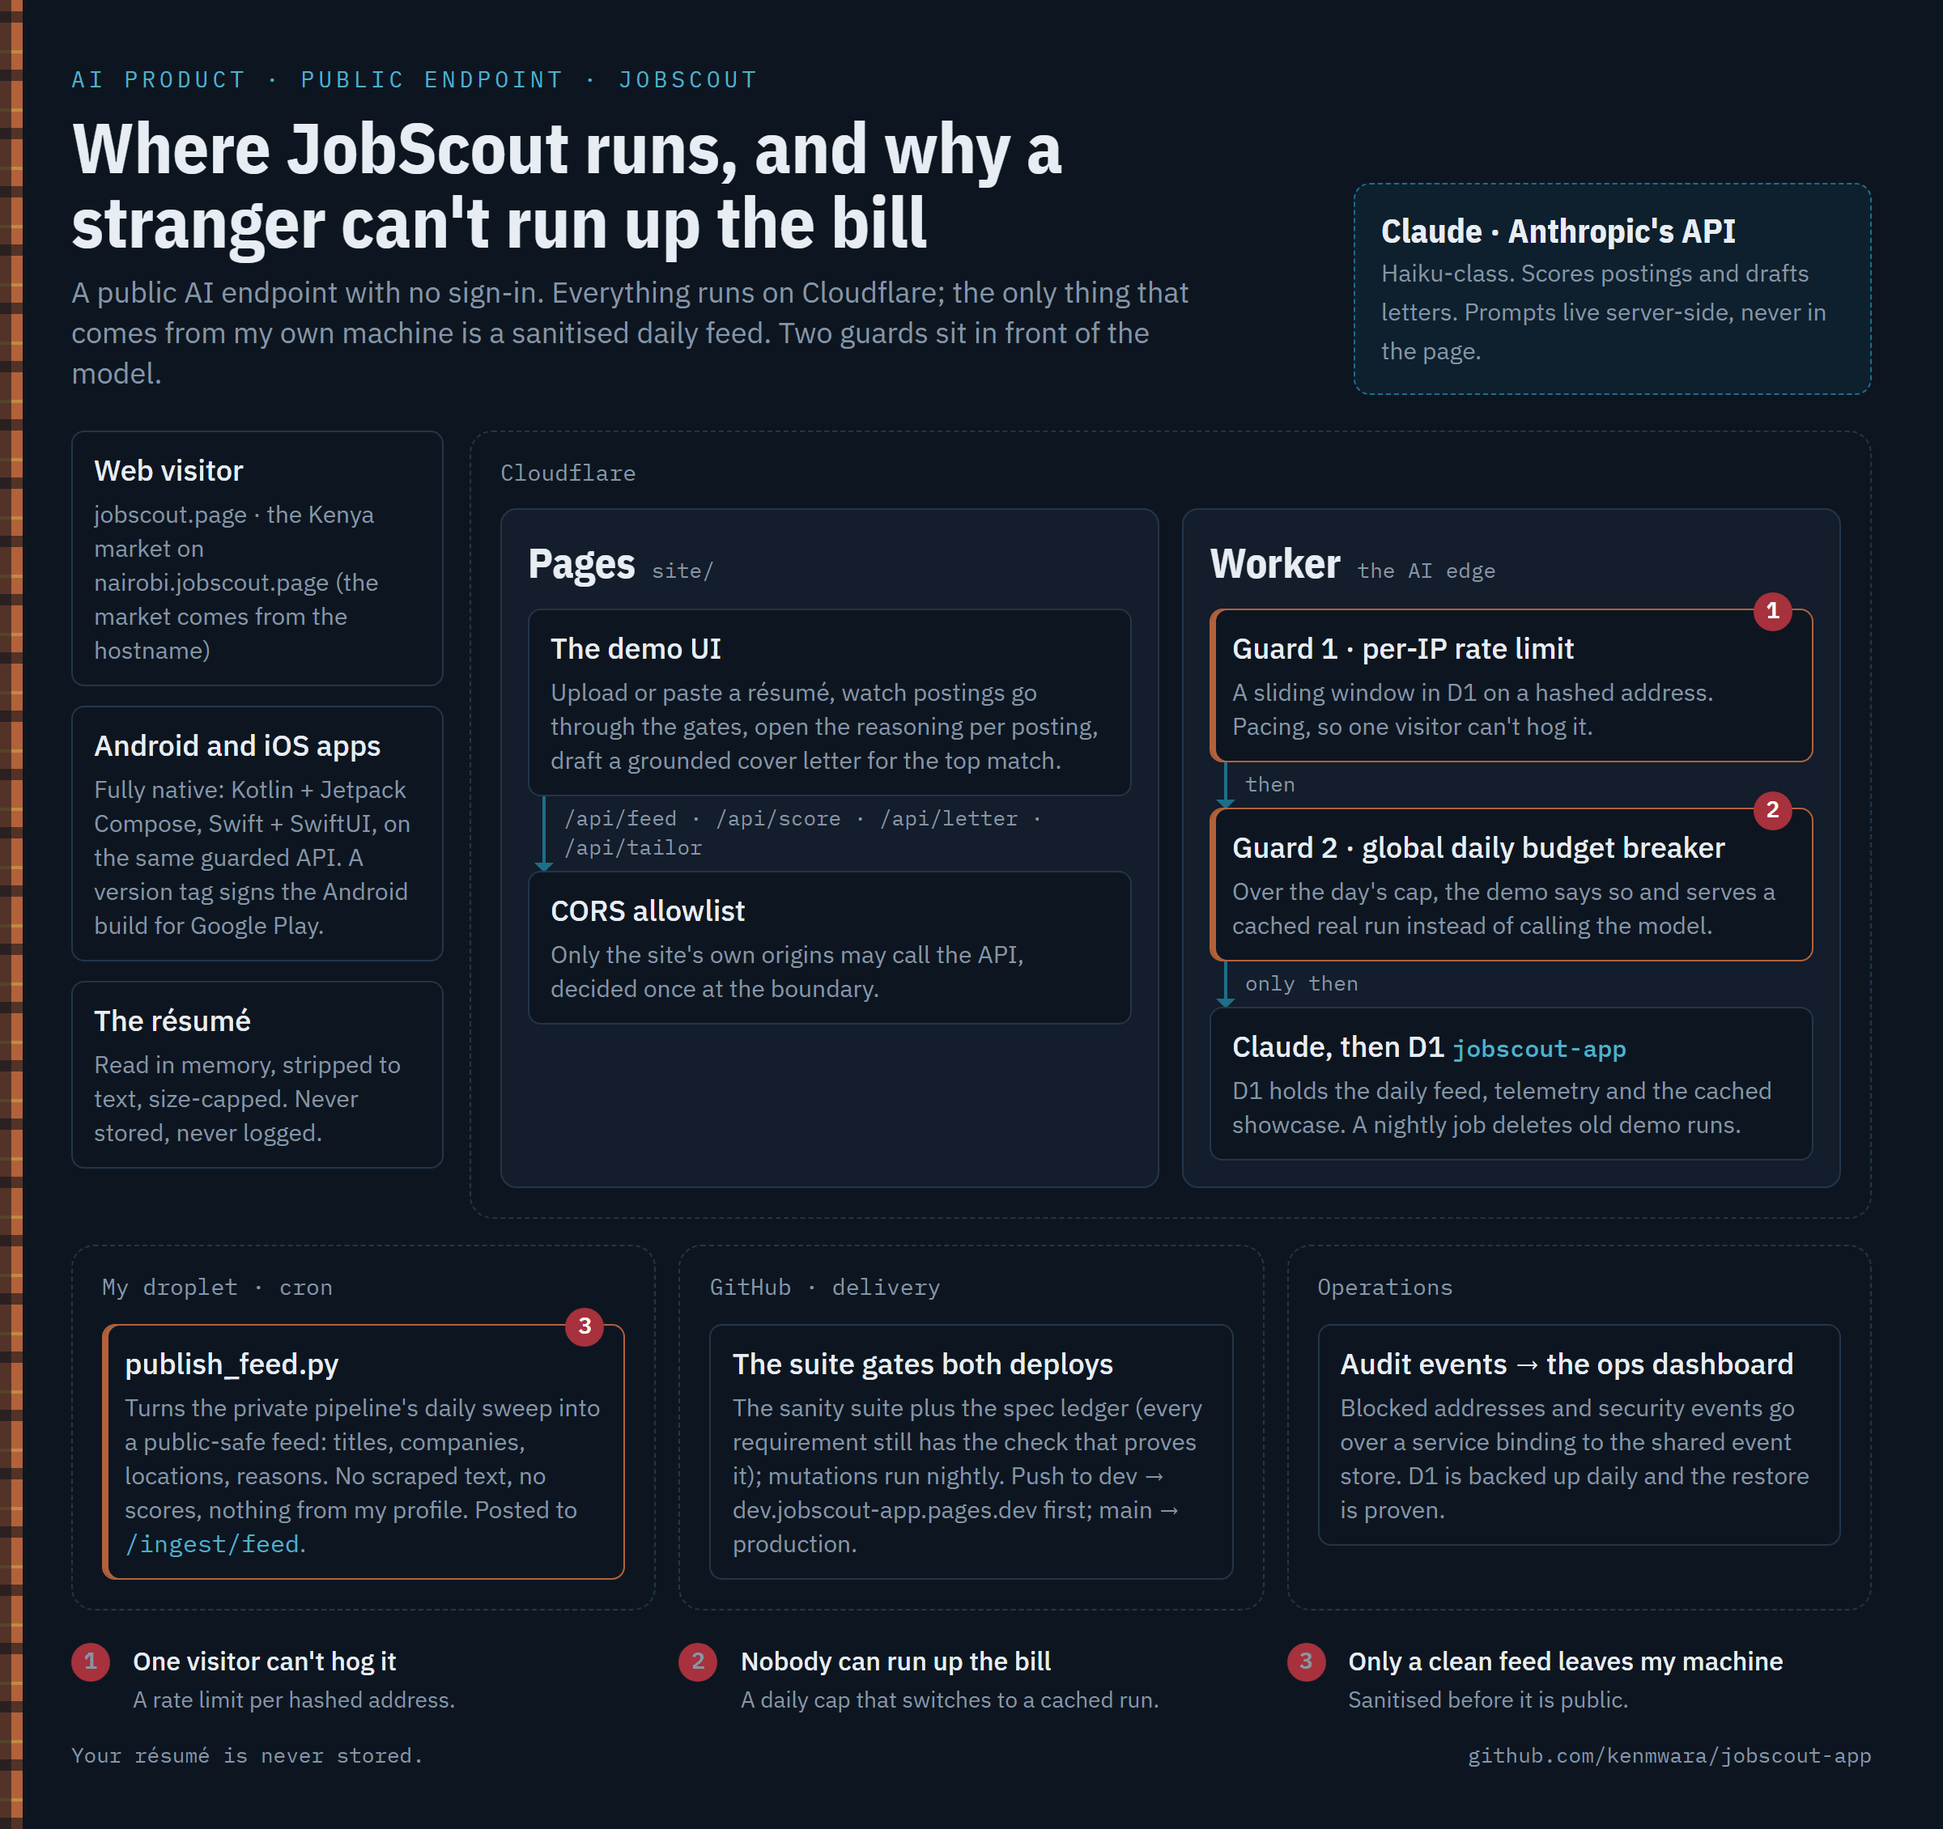
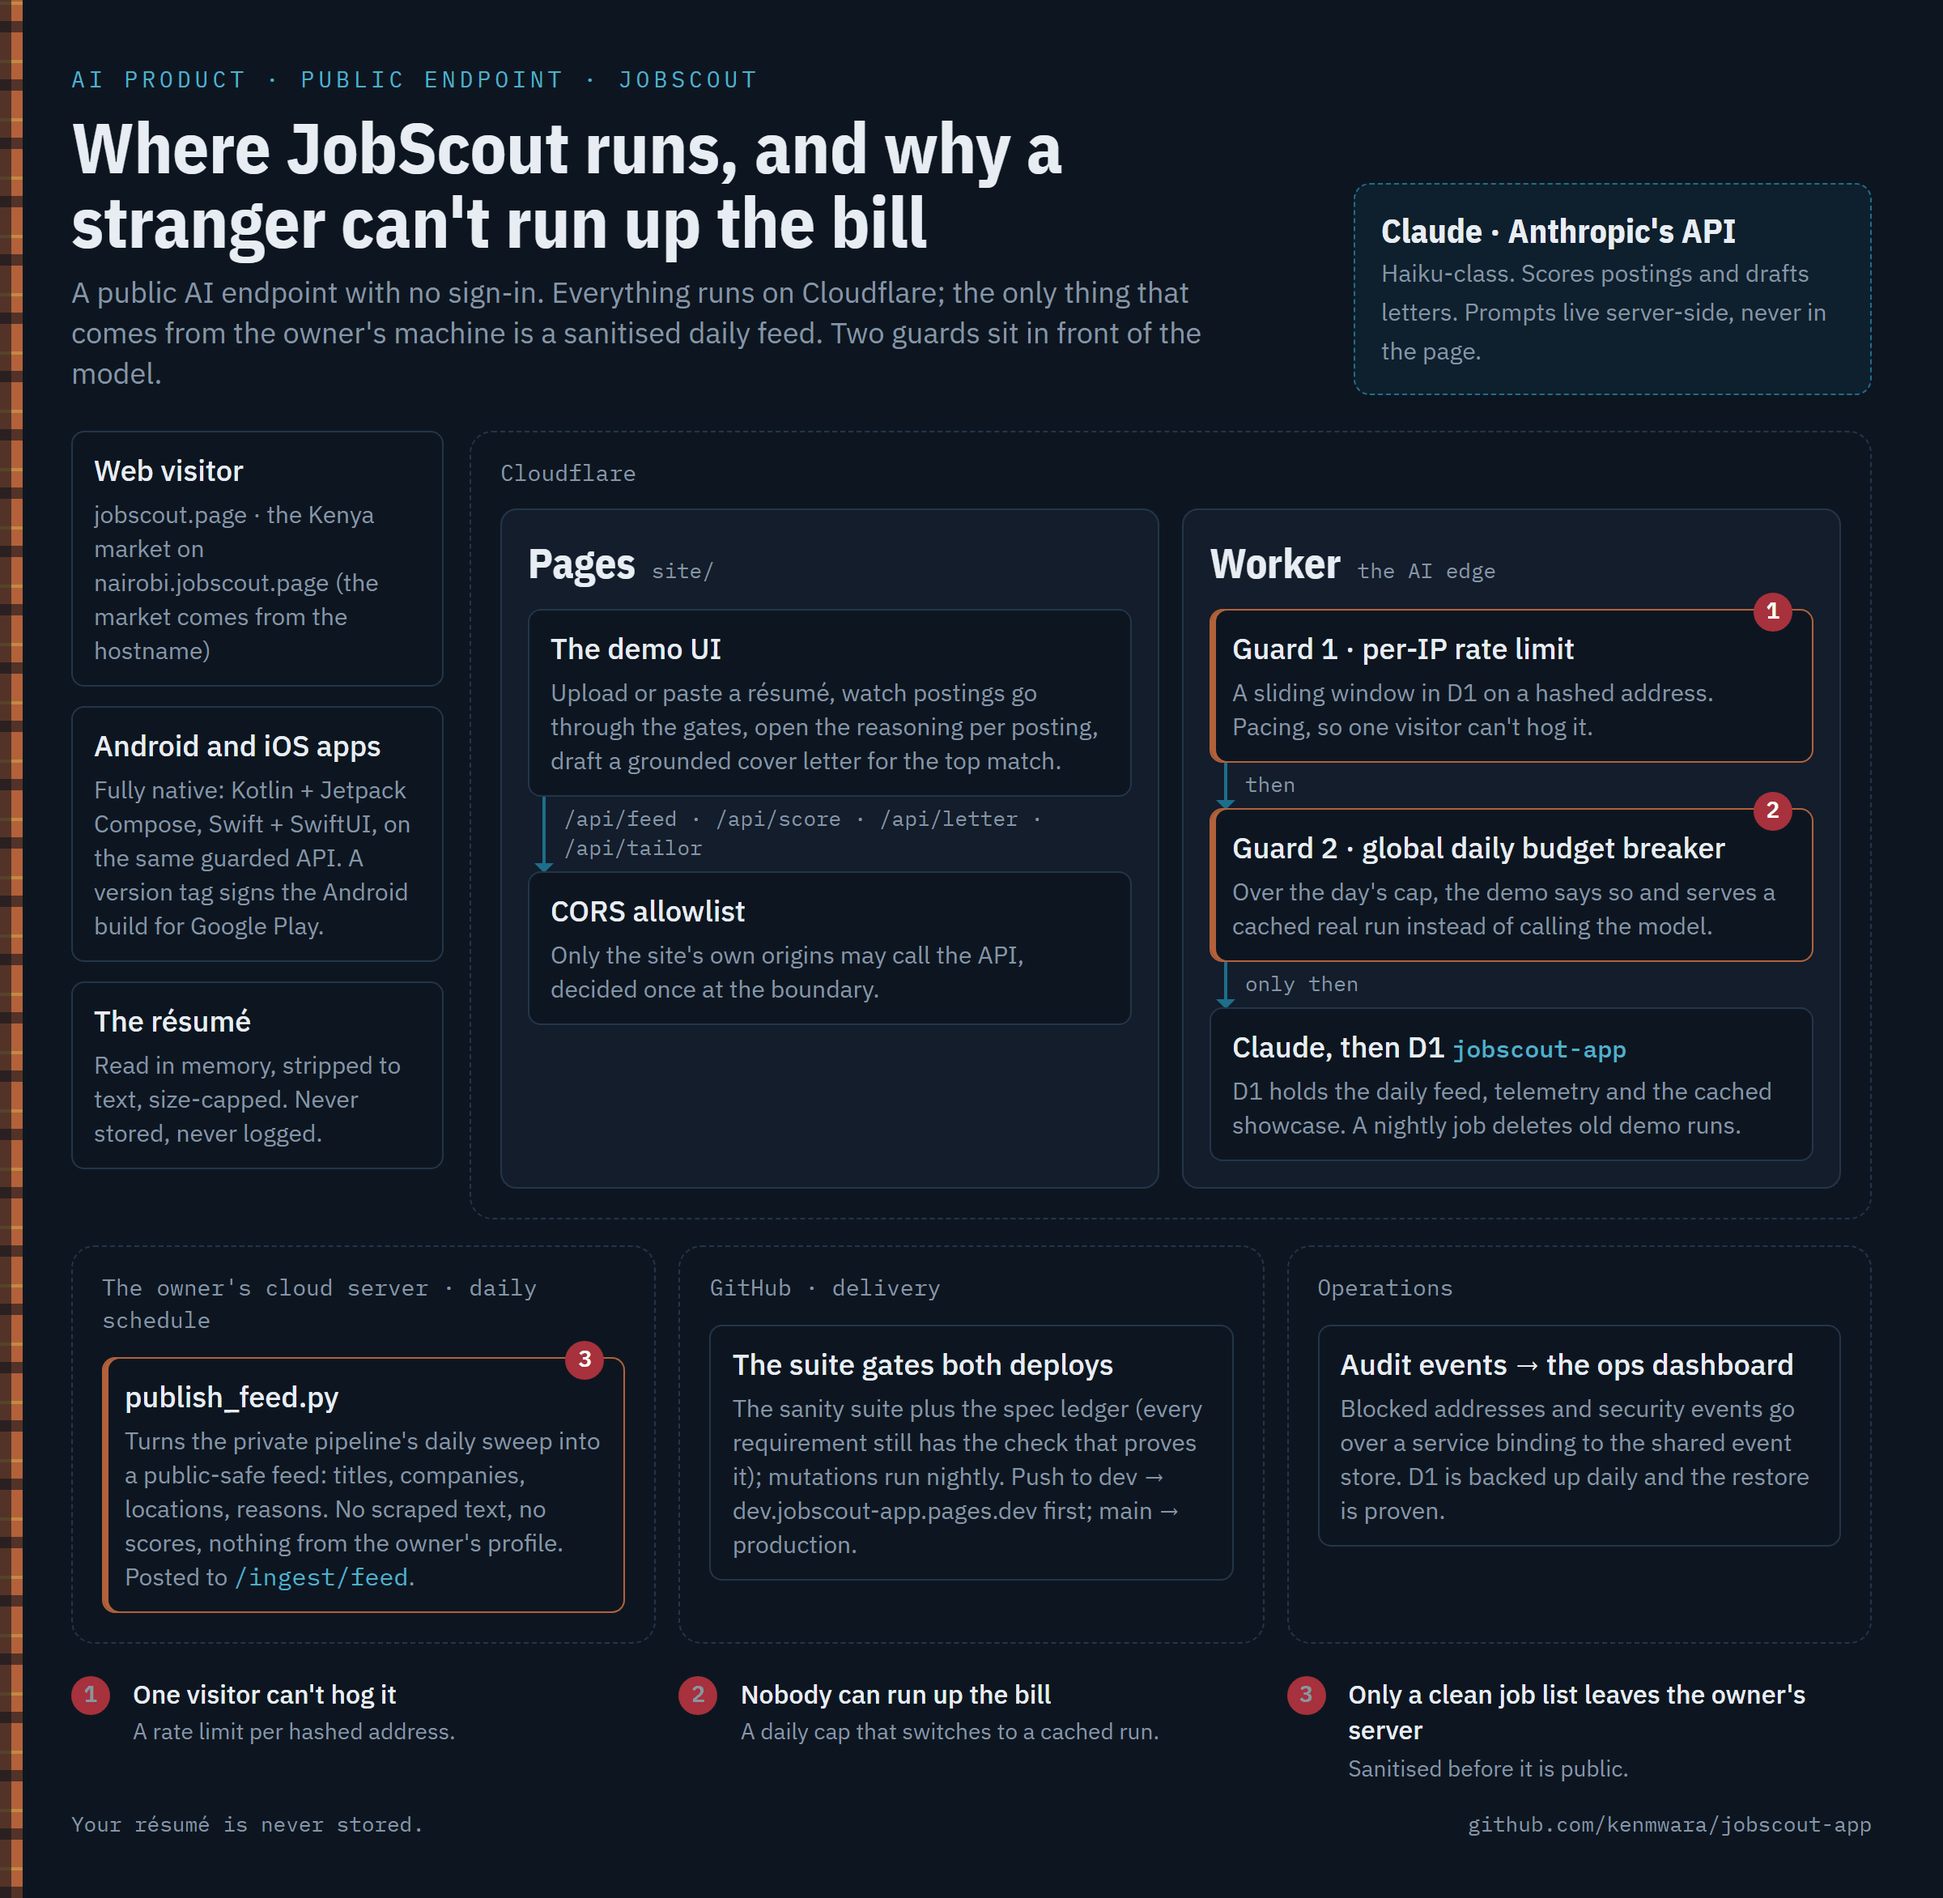
docs: plain-English architecture diagram and README wording (audit 28 Oct)

diff --git a/README.md b/README.md
@@ -3,7 +3,7 @@
 # JobScout — AI job-search copilot
 
 **Live demo: [jobscout.page](https://jobscout.page)** — real job
-postings, scored live by an LLM against a real candidate profile, with the reasoning
+postings, scored live by an AI (Claude) against a real résumé, with its reasons
 shown.
 
 Built from the private pipeline that has run the author's own job search in
@@ -99,7 +99,7 @@ sight, so they cost it nothing. BrighterMonday and Fuzu expose no feed or API.
 ## Architecture
 
 
-<img src="images/architecture.png" width="100%" alt="Architecture diagram of JobScout. Web visitors (jobscout.page and the Kenya market on nairobi.jobscout.page) and the native Android (Kotlin, Jetpack Compose) and iOS (Swift, SwiftUI) apps call one Cloudflare Worker. Cloudflare Pages serves the demo UI behind a CORS allowlist. The Worker applies guard 1, a per-IP sliding-window rate limit in D1, and guard 2, a global daily budget breaker that serves a cached real run when the cap is reached, before calling Claude (Haiku-class, prompts server-side); D1 holds the feed, telemetry and the cached showcase. The résumé is read in memory and never stored. Guard 3: a droplet cron job, publish_feed.py, sanitises the private pipeline's daily sweep into a public-safe feed. GitHub runs the sanity suite and the spec ledger before both deploys, dev first. Audit events go to the ops dashboard's event store; D1 is backed up daily with a proven restore.">
+<img src="images/architecture.png" width="100%" alt="Architecture diagram of JobScout. Web visitors (jobscout.page and the Kenya market on nairobi.jobscout.page) and the native Android (Kotlin, Jetpack Compose) and iOS (Swift, SwiftUI) apps call one Cloudflare Worker. Cloudflare Pages serves the demo UI behind a CORS allowlist. The Worker applies guard 1, a per-IP sliding-window rate limit in D1, and guard 2, a global daily budget breaker that serves a cached real run when the cap is reached, before calling Claude (Haiku-class, prompts server-side); D1 holds the feed, telemetry and the cached showcase. The résumé is read in memory and never stored. Guard 3: a cloud server cron job, publish_feed.py, sanitises the private pipeline's daily sweep into a public-safe feed. GitHub runs the sanity suite and the spec ledger before both deploys, dev first. Audit events go to the ops dashboard's event store; D1 is backed up daily with a proven restore.">
 
 Design decisions in [docs/ARCHITECTURE.md](docs/ARCHITECTURE.md); the plain-English
 walkthrough for non-readers-of-code in [docs/HOW-IT-WORKS.md](docs/HOW-IT-WORKS.md).
